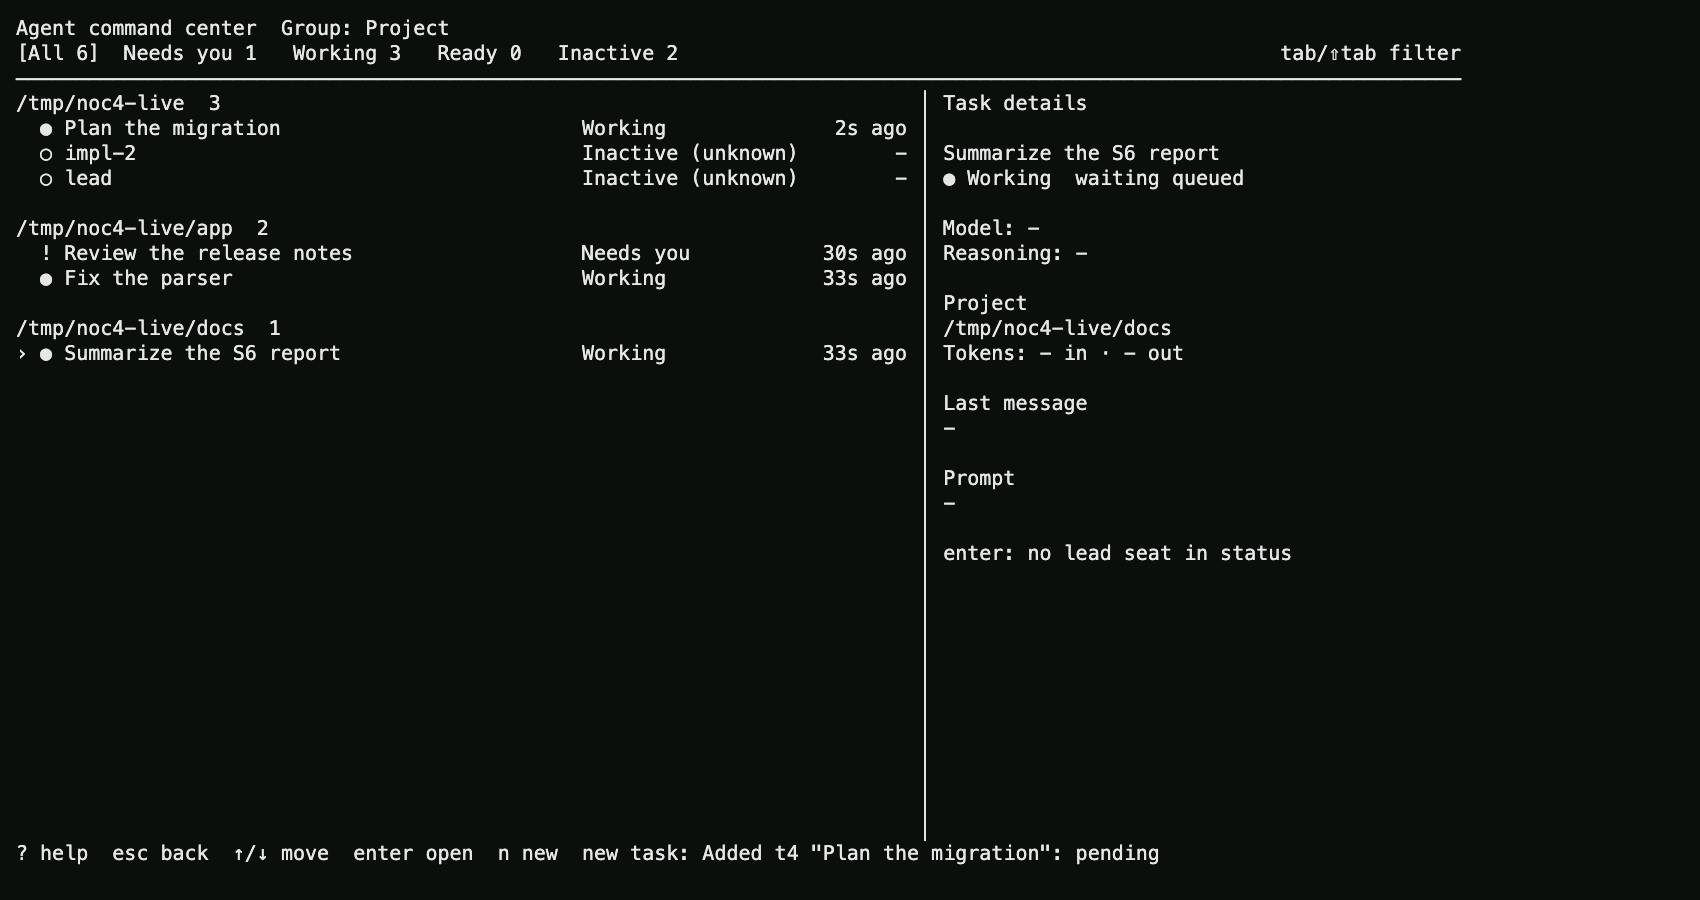
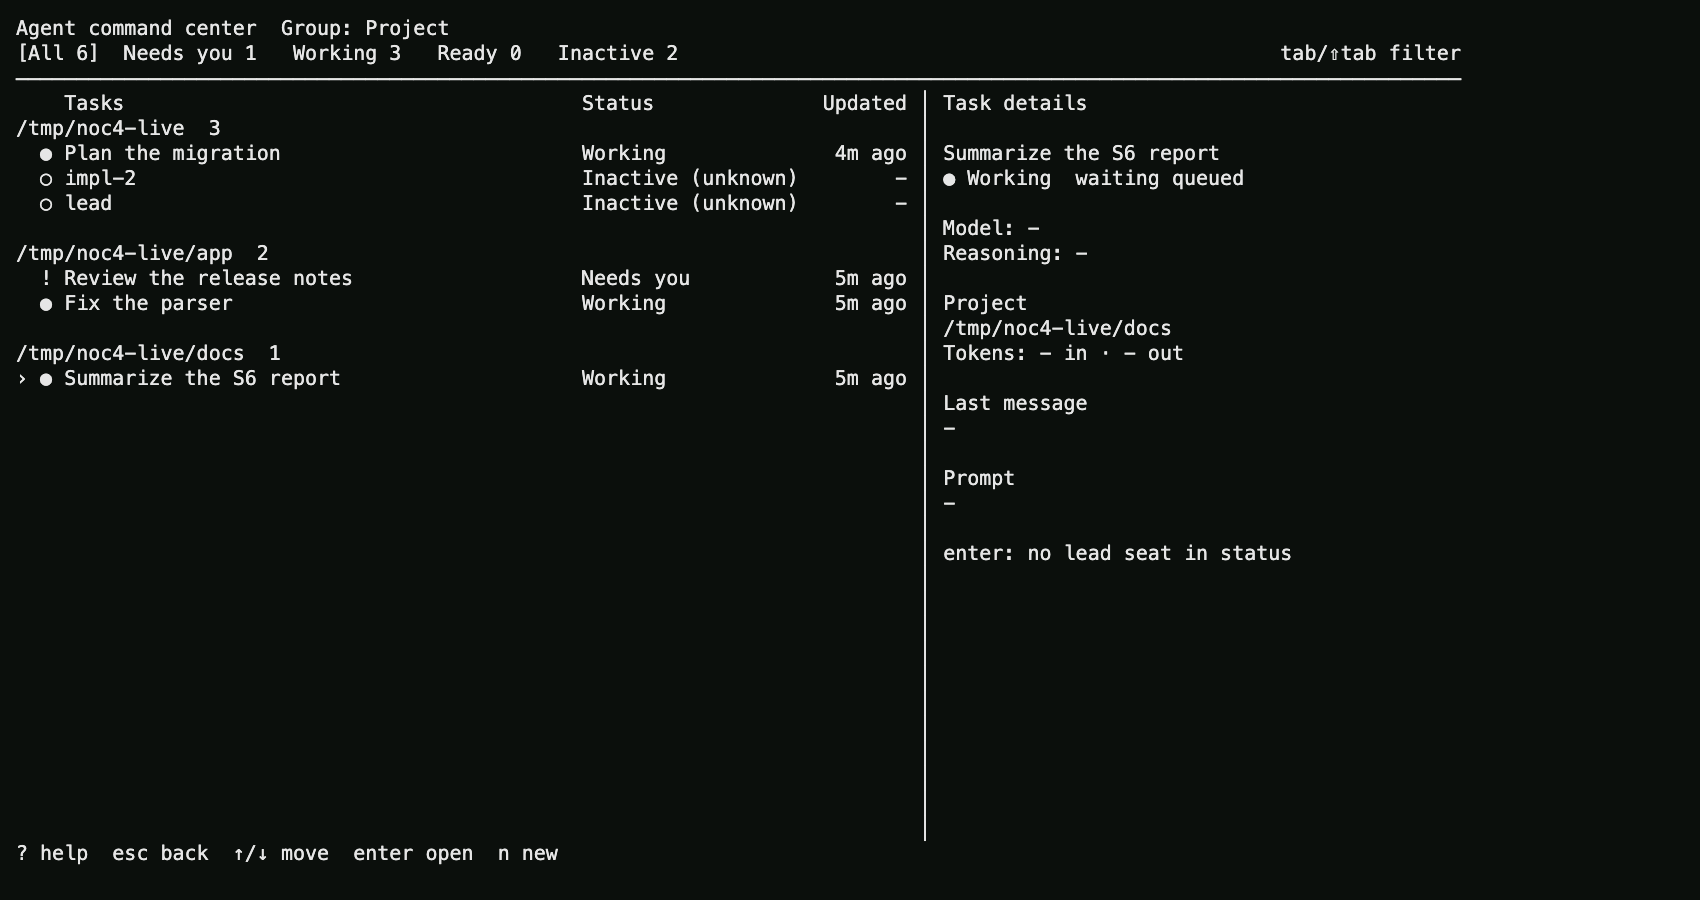
center: live screenshot with the header row, log the allowlist fix
Claude-Session: https://claude.ai/code/session_01DweoyBP65psWdJtwN3gdnu

diff --git a/docs/v1-command-center-execution.md b/docs/v1-command-center-execution.md
@@ -217,3 +217,9 @@ was run while the session was up.
 ## Commit 6: reference polish
 
 Column header row (Tasks, Status, Updated, dim) above the first group; the selected row is reverse-video across the list width and the active tab is a reverse-video chip (both already in place since commit 2, invisible in the plain-text goldens, so the tab keeps its brackets and the row its marker). Goldens at 120 and 80 regenerated (one header line added); frame-time test unchanged and passing.
+
+## Commit 7 and 8: program allowlist, live screenshot retaken
+
+Runner fix (cd22be9): ExecRunner and the new-task action accept only argv[0] equal to bare `amq-squad` or `amq`, compared before exec (LookPath resolution unchanged); anything else returns "runner: program not allowed: <name>", shown in the footer. Tests cover "/tmp/x/amq-squad", "./amq-squad", "../amq", "touch" and a trailing-space name, for both the runner and the composed action, and that nothing runs.
+
+Live screenshot retaken with the header row (same scratch root /tmp/noc4-live, v3 amq-squad first on PATH for that session only, no gate run while it was up): `live-command-center.png` and `live-frame-all.txt` replaced.
